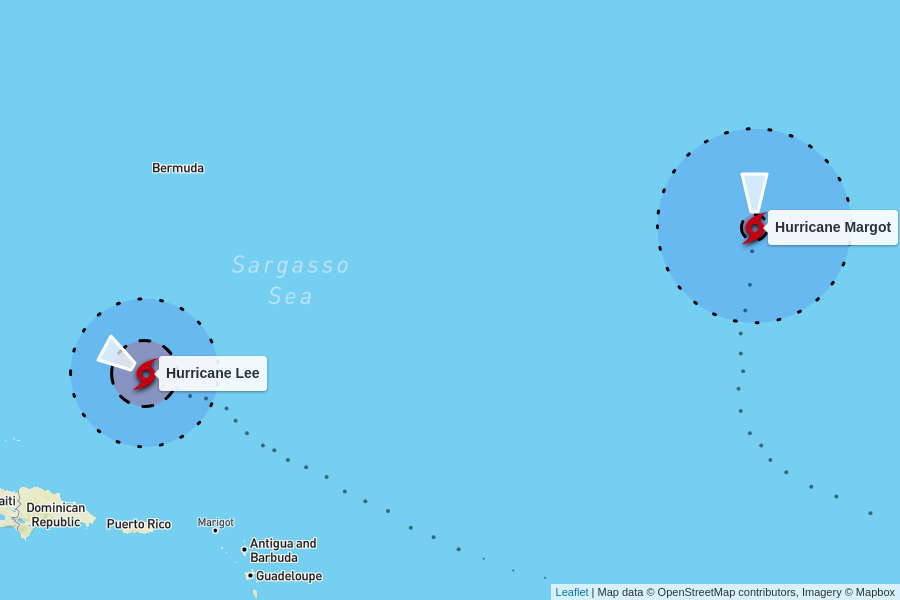
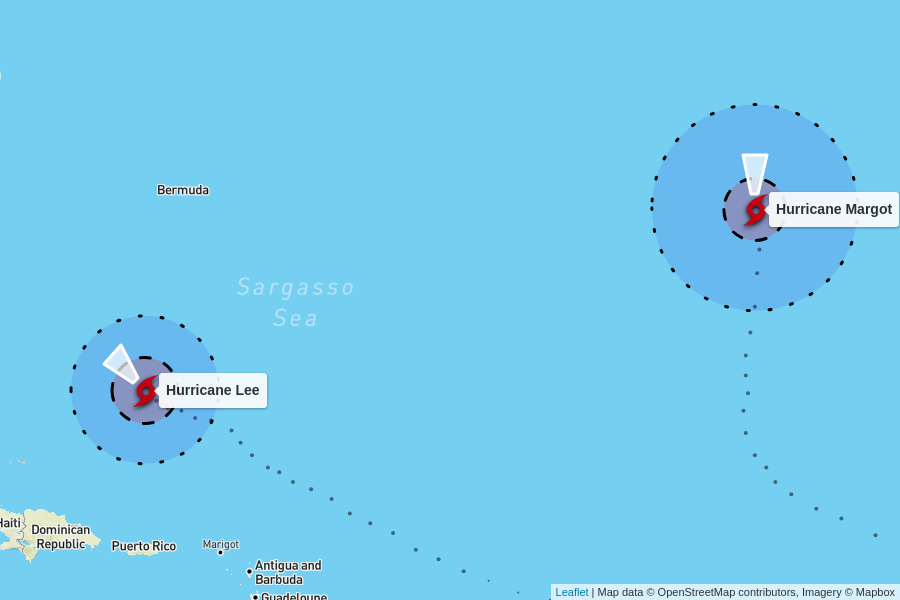
automatic update

diff --git a/docs/index.html b/docs/index.html
@@ -104,7 +104,7 @@
         <td colspan="6" class="storm category-3" >
           <h2>
             Hurricane Lee - Category 3
-            <p class="updated">last updated <span data-time>2023-09-12T18:00:00.000Z</span></p>
+            <p class="updated">last updated <span data-time>2023-09-12T21:00:00.000Z</span></p>
           </h2>
         </td>
       </tr>
@@ -120,11 +120,11 @@
       <tr>
         <td class="spacer"></td>
         <td>115 mph<br>0 mph since last update</td>
-        <td>951 mb<br>0 mb since last update</td>
+        <td>946 mb<br>-5 mb since last update</td>
         <td>
-          6 mph to the west-northwest
+          7 mph to the northwest
           <br/>
-          <span style="display: inline-block; font-size: 1.5em; transform: rotate(300deg);">↑</span>
+          <span style="display: inline-block; font-size: 1.5em; transform: rotate(315deg);">↑</span>
         </td>
         <td><a href="https://raw.githubusercontent.com/mgwalker/atlantic-hurricanes/main/data/csv/AL132023.csv">AL132023.csv</a></td>
         <td><a href="https://www.nhc.noaa.gov/archive/2023/LEE.shtml?">NHC advisories</a></td>
@@ -148,7 +148,7 @@
         <td colspan="6" class="storm category-1" >
           <h2>
             Hurricane Margot - Category 1
-            <p class="updated">last updated <span data-time>2023-09-12T15:00:00.000Z</span></p>
+            <p class="updated">last updated <span data-time>2023-09-12T21:00:00.000Z</span></p>
           </h2>
         </td>
       </tr>
@@ -163,10 +163,10 @@
       </tr>
       <tr>
         <td class="spacer"></td>
-        <td>85 mph<br>0 mph since last update</td>
-        <td>975 mb<br>-4 mb since last update</td>
+        <td>80 mph<br>-5 mph since last update</td>
+        <td>977 mb<br>+2 mb since last update</td>
         <td>
-          12 mph to the north
+          14 mph to the north
           <br/>
           <span style="display: inline-block; font-size: 1.5em; transform: rotate(360deg);">↑</span>
         </td>
